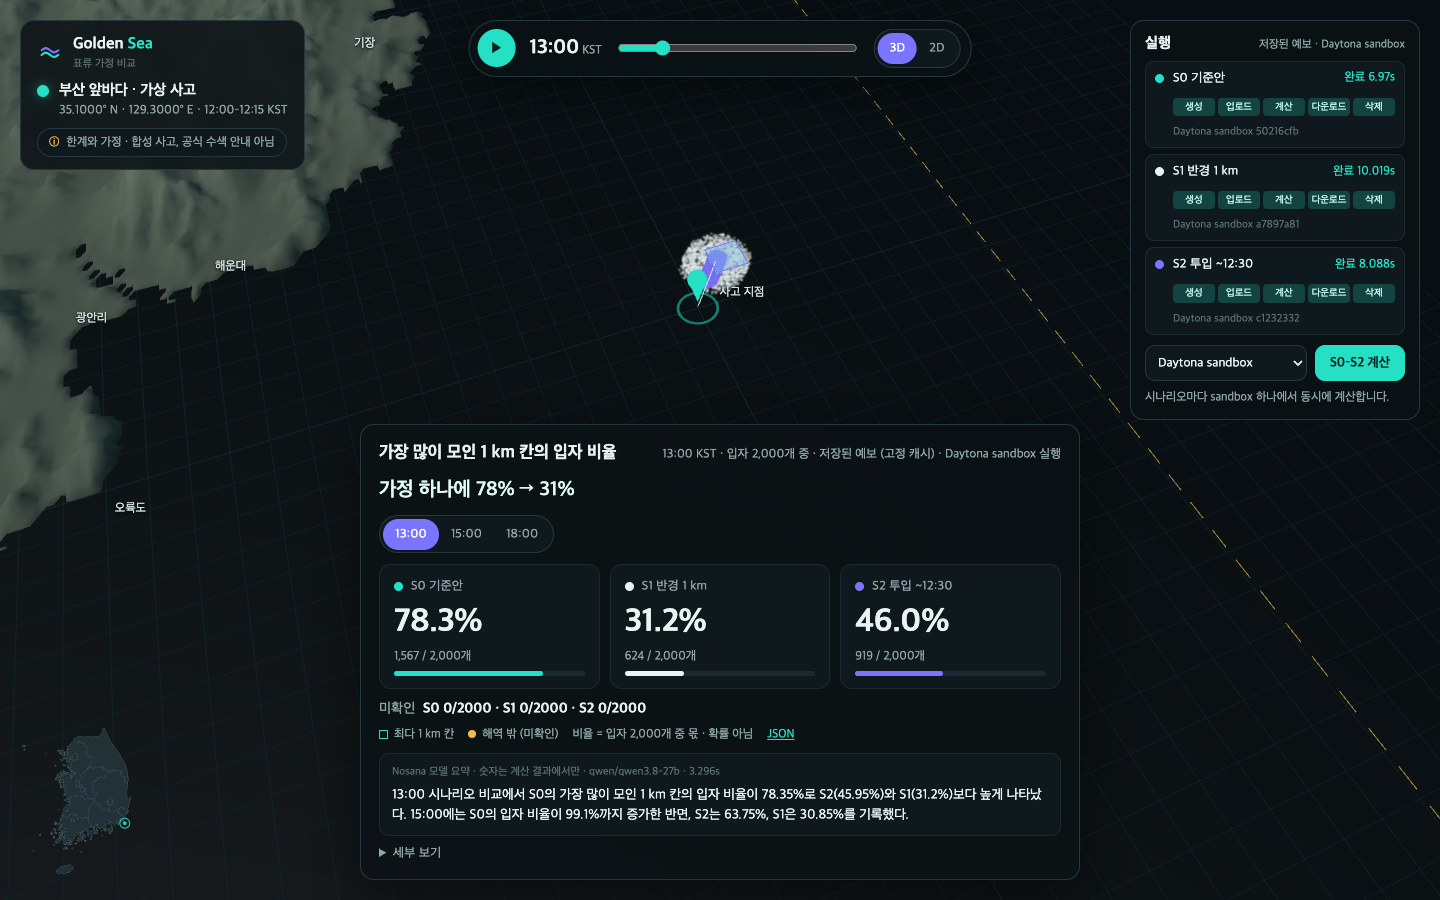
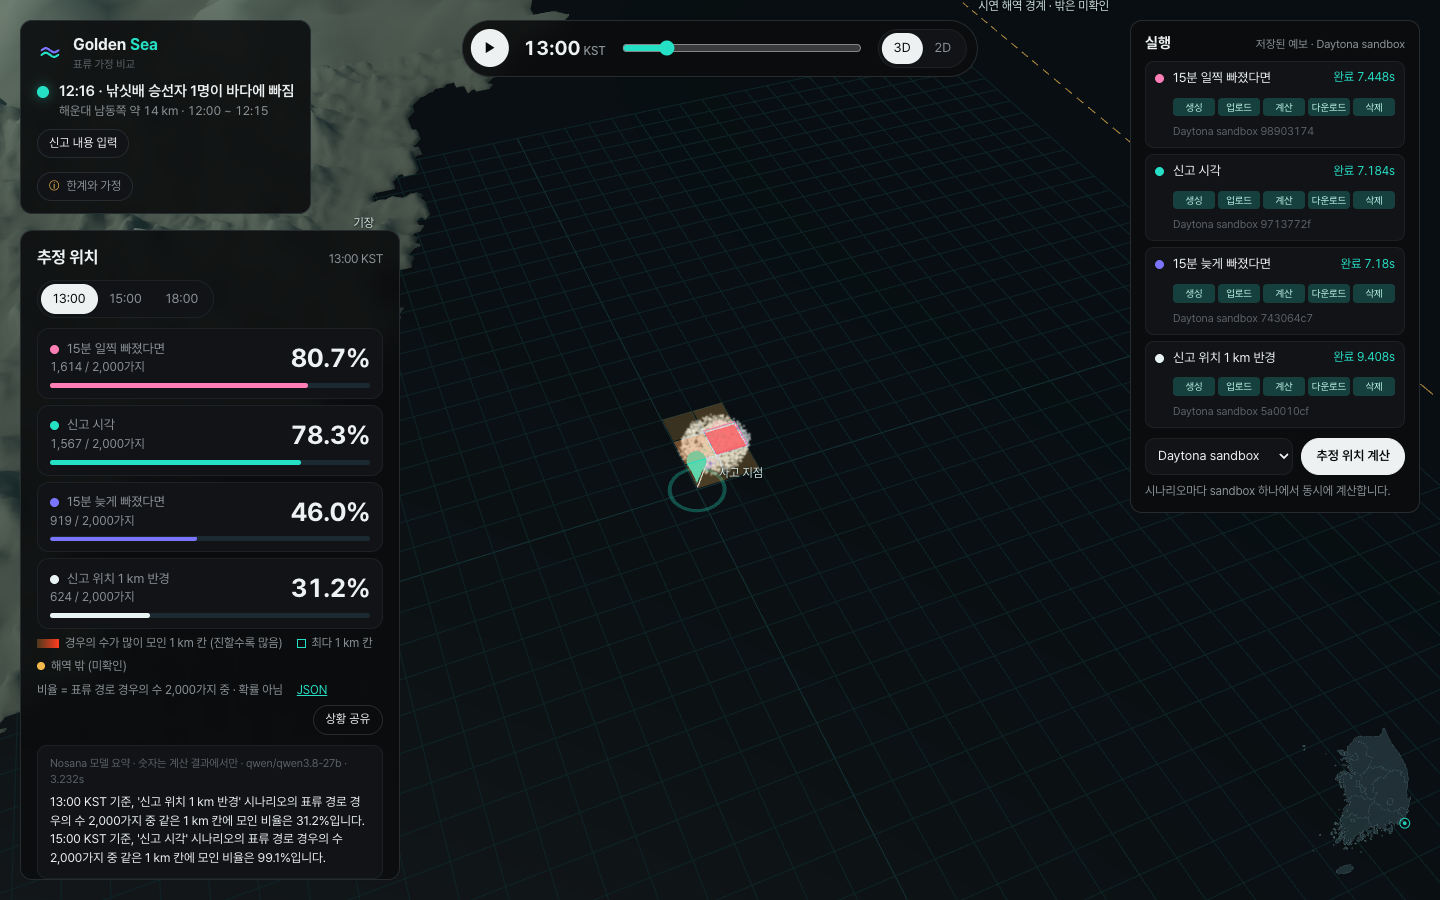
docs: README and landing follow the current service (four cases, three reports)

diff --git a/web/index.html b/web/index.html
@@ -66,10 +66,10 @@ section{border-top:1px solid var(--rule);padding:96px 0}
   <div class="meta"><span><b>부산 앞바다</b> 가상 사고</span><span><b>Daytona</b> sandbox</span><span><b>Nosana</b> 요약</span><span>Daytona HackSprint Seoul · 2026.10.18</span></div>
   <h1>해상 실종자<br>위치 추정</h1>
   <div class="intro">
-    <p>신고만으로는 사람이 빠진 정확한 위치와 시각을 알기 어렵습니다. Golden Sea는 위치와 시각 가정을 바꿔 가며 표류를 동시에 계산하고, 결과가 얼마나 달라지는지 나란히 보여 줍니다.</p>
+    <p>신고 하나로 표류 위치를 여러 경우로 계산합니다. 빠진 시각 ±15분과 위치 반경 1 km를 함께 봅니다.</p>
     <div class="cta"><a class="btn" href="app.html">데모 열기 →</a><a class="link" href="https://github.com/currenjin/2026-10-daytona-hack-sprint">GitHub에서 코드 보기</a></div>
   </div>
-  <figure><img src="assets/hero.png" alt="Golden Sea 화면: 부산 앞바다 가상 사고의 세 시나리오 비교"><figcaption>13:00 KST 결과. Daytona sandbox 3개에서 계산하고 Nosana 모델이 요약을 썼습니다.</figcaption></figure>
+  <figure><img src="assets/hero.png" alt="Golden Sea 화면: 부산 앞바다 가상 사고의 세 시나리오 비교"><figcaption>해운대 남동쪽 가상 신고, 1시간 뒤 결과. Daytona sandbox 4개에서 계산하고 Nosana 모델이 요약했습니다.</figcaption></figure>
 </div>
 
 <section id="problem"><div class="wrap">
@@ -78,8 +78,7 @@ section{border-top:1px solid var(--rule);padding:96px 0}
     <div class="big">165<small>/ 256명</small></div>
     <div class="prose">
       <h2>2021년 이후 해상 실종자 세 명 중 두 명은 아직 찾지 못했습니다.</h2>
-      <p>지난달 오륙도 예인선 사고 때는 부산과 울산 앞바다를 수색했지만, 실종자는 100 km쯤 떨어진 포항에서 발견됐습니다.</p>
-      <p>예측 하나만 보면 그 예측이 빗나갔을 때 다른 곳을 볼 근거가 없습니다.</p>
+      <p>지난달 오륙도 예인선 사고 실종자는 수색 해역에서 100 km 떨어진 포항에서 발견됐습니다.</p>
       <div class="src">해양경찰청 자료(문대림 의원실), 파이낸셜뉴스 2026-09-04 · 노컷뉴스 2026-09-10. 보도 수치이며 이 제품의 결과가 아닙니다.</div>
     </div>
   </div>
@@ -88,19 +87,20 @@ section{border-top:1px solid var(--rule);padding:96px 0}
 <section id="how"><div class="wrap">
   <div class="label">방법</div>
   <div class="how">
-    <div><div class="k">01</div><h3>신고를 가정 셋으로</h3><p>신고된 위치와 시각을 기준안으로 두고, 위치를 반경 1 km로 넓힌 경우와 시각을 12:30까지 늦춘 경우를 만듭니다.</p></div>
-    <div><div class="k">02</div><h3>Daytona sandbox 3개</h3><p>시나리오마다 sandbox를 하나씩 띄워 같은 엔진으로 표류 경로 경우의 수 2,000가지를 6시간 계산합니다. 하나당 7~10초 걸렸습니다.</p></div>
-    <div><div class="k">03</div><h3>비교와 요약</h3><p>경우의 수가 가장 많이 모인 1 km 칸을 비교하고, Nosana 모델이 계산된 숫자로만 요약을 씁니다.</p></div>
+    <div><div class="k">01</div><h3>신고 입력</h3><p>위치와 빠진 시각 범위</p></div>
+    <div><div class="k">02</div><h3>Daytona sandbox 4개</h3><p>시각 ±15분, 위치 반경 1 km를 동시에 계산. 각 6~10초</p></div>
+    <div><div class="k">03</div><h3>비교 · 요약 · 공유</h3><p>Nosana 두 줄 요약, 출동팀·상황실 공유 문구</p></div>
   </div>
 </div></section>
 
 <section id="result"><div class="wrap">
   <div class="split">
-    <div class="prose"><div class="label">결과 · 13:00 KST</div><h2>신고 위치를 1 km 반경으로 넓히면, 같은 칸에 모이는 경우의 수가 78%에서 31%로 줄어듭니다.</h2><p>표류 경로 경우의 수 2,000가지 중 몇 %가 같은 1 km 칸에 모였는지입니다. 발견이나 생존 확률은 아닙니다. 해역을 벗어난 경로는 미확인으로 셉니다.</p></div>
+    <div class="prose"><div class="label">결과 · 1시간 뒤</div><h2>15분, 1 km 차이로 31%에서 81%까지 갈립니다.</h2><p>표류 경로 경우의 수 2,000가지 중 같은 1 km 칸에 모인 비율입니다. 확률은 아닙니다.</p></div>
     <div class="res">
-      <div class="row"><div class="n">신고 시점<span>반경 250 m · 12:00–12:15</span></div><div class="bar"><i style="width:78.3%;background:var(--teal)"></i></div><div class="v">78.3%</div></div>
-      <div class="row"><div class="n">신고 기준 1 km 반경<span>위치를 반경 1 km로 넓힘</span></div><div class="bar"><i style="width:31.2%;background:var(--white)"></i></div><div class="v">31.2%</div></div>
-      <div class="row"><div class="n">늦게 빠진 경우 (12:30)<span>12:00~12:30 사이에 빠졌다고 봄</span></div><div class="bar"><i style="width:46%;background:var(--indigo)"></i></div><div class="v">46.0%</div></div>
+      <div class="row"><div class="n">15분 일찍 빠졌다면<span>11:45–12:15</span></div><div class="bar"><i style="width:80.7%;background:#ff7eb6"></i></div><div class="v">80.7%</div></div>
+      <div class="row"><div class="n">신고 시각<span>12:00–12:15</span></div><div class="bar"><i style="width:78.35%;background:var(--teal)"></i></div><div class="v">78.3%</div></div>
+      <div class="row"><div class="n">15분 늦게 빠졌다면<span>12:00–12:30</span></div><div class="bar"><i style="width:45.95%;background:var(--indigo)"></i></div><div class="v">46.0%</div></div>
+      <div class="row"><div class="n">신고 위치 1 km 반경<span>12:00–12:15</span></div><div class="bar"><i style="width:31.2%;background:var(--white)"></i></div><div class="v">31.2%</div></div>
     </div>
   </div>
 </div></section>

diff --git a/README.md b/README.md
@@ -1,18 +1,18 @@
 # Golden Sea
 
-**Not one predicted line, but the whole plausible sea.**
-When someone falls overboard, Golden Sea runs several "what-if" worlds side by side (same particles, one assumption changed each) and shows where 2,000 drift particles gather over the next six hours.
+Estimate where a person lost at sea has drifted, from a single report.
+A report gives only a rough place and time, so Golden Sea computes several cases at once (fell 15 min earlier, reported time, fell 15 min later, 1 km position radius) and shows how far apart the results are.
 
-![Golden Sea running on Daytona with a Nosana summary](docs/screenshot.png)
+![Golden Sea: four cases computed in Daytona sandboxes with a Nosana summary](docs/screenshot.png)
 
 | | |
 | --- | --- |
-| Problem | Drift forecasts are usually shown as one line. From 2021 to June 2026, 165 of 256 people missing at sea or on the coast in Korea (64.5%) have not been found (Korea Coast Guard data via Rep. Moon Dae-rim, Financial News 2026-09-04). In the Sept 2026 Oryukdo tugboat capsizing off Busan, searchers focused on Busan and Ulsan waters, and one crew member was found about 100 km away in Pohang (Nocut News 2026-09-10). |
-| What it does | Synthetic incident off Busan (35.1°N, 129.3°E, 12:00–12:15 KST). S0 baseline (250 m radius), S1 radius 1 km, S2 release until 12:30. 6-hour playback in 3D/2D, the share of particles in the densest 1 km cell at 13:00 / 15:00 / 18:00. |
-| Result (stored forecast) | Densest 1 km cell at 13:00: S0 78.4%, S1 31.2%, S2 46.0%. By 18:00 all particles leave the demo domain and are shown as unresolved, not as 0. |
-| **Daytona** | Each scenario runs in its own Daytona sandbox: create → upload engine, contracts and cached forecast → run → download result → delete. Measured: 3 sandboxes in parallel, about 8 s each (create 1.2–1.6 s, upload ~3 s, compute ~0.9 s, download ~1.4 s, delete ~0.2 s). |
-| **Nosana** | The result is summarised by `qwen/qwen3.8-27b` on Nosana inference (OpenAI-compatible), about 3 s, prompted to reuse computed numbers only and never call particle shares "probabilities". |
-| Honesty | Synthetic incident, cached Open-Meteo forecast (SHA-256 pinned), single-point uniform current, coastline and surface-current accuracy unverified. Not official search guidance. |
+| Problem | From 2021 to June 2026, 165 of 256 people missing at sea or on the coast in Korea (64.5%) have not been found (Korea Coast Guard data via Rep. Moon Dae-rim, Financial News 2026-09-04). In the Sept 2026 Oryukdo tugboat capsizing, one crew member was found near Pohang, about 100 km from the search area (Nocut News 2026-09-10). |
+| Flow | Landing → enter a simulated report (three different incidents off Busan) → estimate → 6-hour 3D/2D playback with the densest 1 km cells highlighted → share text for rescue crews and the control room. |
+| Result | Report ~14 km SE of Haeundae, one hour later, share of 2,000 drift paths in the same 1 km cell: fell 15 min earlier 80.7%, reported time 78.3%, fell 15 min later 46.0%, 1 km radius 31.2%. |
+| **Daytona** | One Daytona sandbox per case, four at once: create → upload engine, contracts and cached forecast → run → download → delete. Measured about 6–10 s each. |
+| **Nosana** | `qwen/qwen3.8-27b` on Nosana inference writes a two-line summary from the computed numbers only (about 3 s). |
+| Limits | Simulated reports, cached Open-Meteo current forecast (SHA-256 pinned), one current value per incident, coastline accuracy unverified. Shares are not probabilities. Not official search guidance. The frozen verification criteria cover the first incident (S0–S2, 34.9–35.3°N, 129.0–129.4°E); the -15 min case, incidents 2–3 and the widened demo area are marked `PRESET_NOT_IN_FROZEN_CRITERIA`. |
 
 Built at Daytona HackSprint Seoul, 2026-10-18.
 
@@ -20,14 +20,11 @@ Built at Daytona HackSprint Seoul, 2026-10-18.
 
 ## 한국어
 
-바다에 사람이 떨어졌을 때, 하나의 예측선 대신 **가정을 바꾼 여러 세계**를 동시에 돌려 입자가 어디로 퍼지는지 비교합니다.
-Daytona HackSprint Seoul · 2026-10-18.
+해상 실종 신고 하나로 실종자가 표류했을 위치를 추정합니다. 신고로는 위치와 시각을 대략만 알기 때문에, 빠진 시각 ±15분과 위치 반경 1 km를 바꾼 네 가지 경우를 동시에 계산해 나란히 보여 줍니다.
 
-- 사고: 부산 앞바다 **가상** 사고 (35.1°N, 129.3°E), 투입 12:00–12:15 KST, 입자 2,000개, 6시간
-- 시나리오: S0 기준안(반경 250 m) · S1 반경 1 km · S2 투입 ~12:30 (같은 초기 표본 공유)
-- 입력: 저장된 Open-Meteo 해류·GFS 바람 응답(SHA-256 고정, Git 미포함)
-- 화면: 3D/2D 지도, 6시간 재생, 시나리오별 핵심 숫자, 실행 패널(로컬 / Daytona sandbox)
-- 공식 수색 안내가 아니며 입자 비율은 발견·생존 확률이 아닙니다. 해안선·표층 유속은 미검증입니다.
+- 흐름: 랜딩 → 가상 신고 입력(부산 앞바다 서로 다른 사고 3건) → 추정 위치 계산 → 6시간 재생(3D/2D, 경우의 수가 많이 모인 1 km 칸 표시) → 출동팀·상황실 공유 문구
+- 계산: 경우마다 Daytona sandbox 하나, 4개 동시. Nosana 모델이 계산된 숫자로만 두 줄 요약
+- 표류 경로 경우의 수 2,000가지 중 같은 1 km 칸에 모인 비율이며 발견·생존 확률이 아닙니다. 공식 수색 안내가 아닙니다.
 
 ## 실행
 
